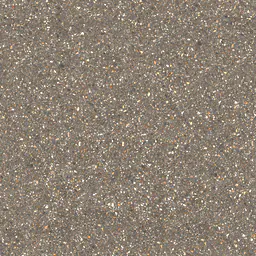
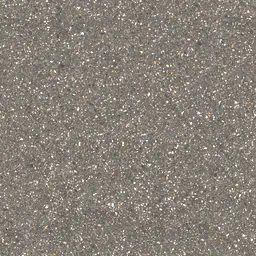
fix(materials): desaturate wall and ground layers, cleaner bitumen roof
Wall and ground layers are multiplied by each building's colour, so their
own hue is reduced (limestone 0.5, concretes 0.3, pebble-dash and pavers
0.6, asphalt 0.3). Asphalt025C had white blotches; roof_bitumen uses the
plain Asphalt031 instead. Total set 1,819,829 bytes.

diff --git a/docs/ASSET_CREDITS.md b/docs/ASSET_CREDITS.md
@@ -22,7 +22,7 @@ Facade photos (CC0 / CC-BY / CC-BY-SA / public domain, dated before 24 February 
 | `roof_tin_seam` | [CorrugatedSteel007A](https://ambientcg.com/view?id=CorrugatedSteel007A) | ambientcg | CC0-1.0 |
 | `roof_clay_tile` | [RoofingTiles014A](https://ambientcg.com/view?id=RoofingTiles014A) | ambientcg | CC0-1.0 |
 | `roof_eternit` | [CorrugatedSteel005](https://ambientcg.com/view?id=CorrugatedSteel005) | ambientcg | CC0-1.0 |
-| `roof_bitumen` | [Asphalt025C](https://ambientcg.com/view?id=Asphalt025C) | ambientcg | CC0-1.0 |
+| `roof_bitumen` | [Asphalt031](https://ambientcg.com/view?id=Asphalt031) | ambientcg | CC0-1.0 |
 | `asphalt` | [Road012A](https://ambientcg.com/view?id=Road012A) | ambientcg | CC0-1.0 |
 | `asphalt_worn` | [Road012B](https://ambientcg.com/view?id=Road012B) | ambientcg | CC0-1.0 |
 | `pavers_behaton` | [PavingStones128](https://ambientcg.com/view?id=PavingStones128) | ambientcg | CC0-1.0 |
